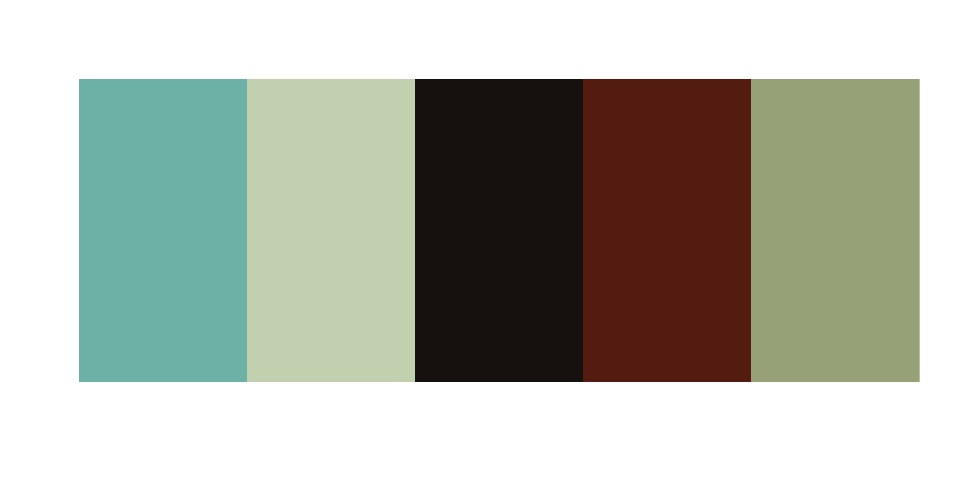
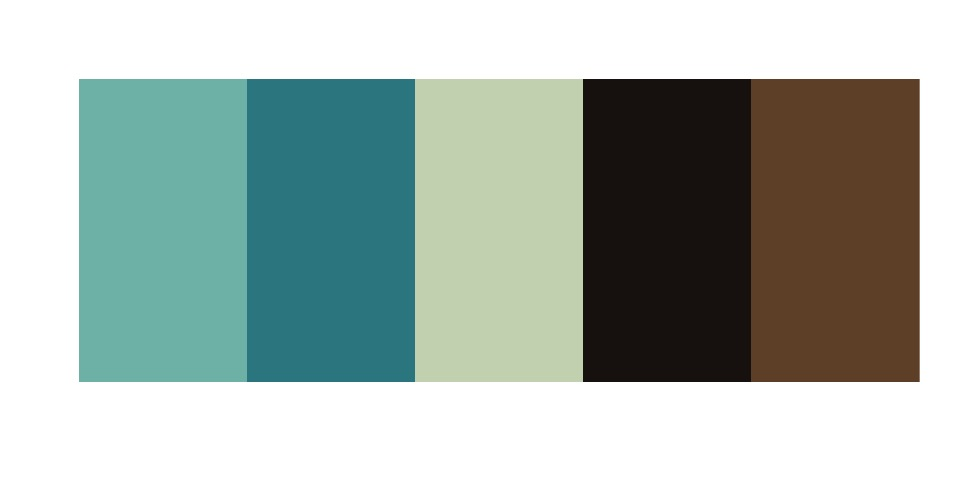
updated tutorial

diff --git a/ggplot-on-fire.md b/ggplot-on-fire.md
@@ -37,7 +37,7 @@ get_colors("images/hemadramamaisexterieure4612433621.jpg") %>% # you can referen
 
 ![](ggplot-on-fire_files/figure-gfm/unnamed-chunk-3-1.jpeg)<!-- -->
 
-    ## [1] "#7EBDB5" "#CCD9BD" "#1D1512" "#682713" "#A7AF8A"
+    ## [1] "#7EBDB5" "#338791" "#CCD9BD" "#1D1512" "#714F34"
 
 You can play around with how many colors you extract - this will depend
 on what your data looks like. Do you want to show a few different
@@ -60,7 +60,7 @@ PLF<- get_colors("images/hemadramamaisexterieure4612433621.jpg") %>%
 
 ![](ggplot-on-fire_files/figure-gfm/unnamed-chunk-4-1.jpeg)<!-- -->
 
-### Step 3: Apply the new palette to a ggplot 📉
+### Step 3: Use your new palette
 
 From this:
 
@@ -74,7 +74,7 @@ penguins %>% # feed ggplot the data
 
 ![](ggplot-on-fire_files/figure-gfm/unnamed-chunk-5-1.jpeg)<!-- -->
 
-To this 🔥 ggplot 🔥:
+To this 🔥:
 
 ``` r
 penguins %>%
@@ -86,7 +86,7 @@ penguins %>%
 
 ![](ggplot-on-fire_files/figure-gfm/unnamed-chunk-6-1.jpeg)<!-- -->
 
-For more information on the package vignette, go to:
+For more information on the colorfindr package, go to:
 <https://github.com/zumbov2/colorfindr>  
 For more information on Palmer Penguins, go to:
 <https://github.com/allisonhorst/palmerpenguins>
